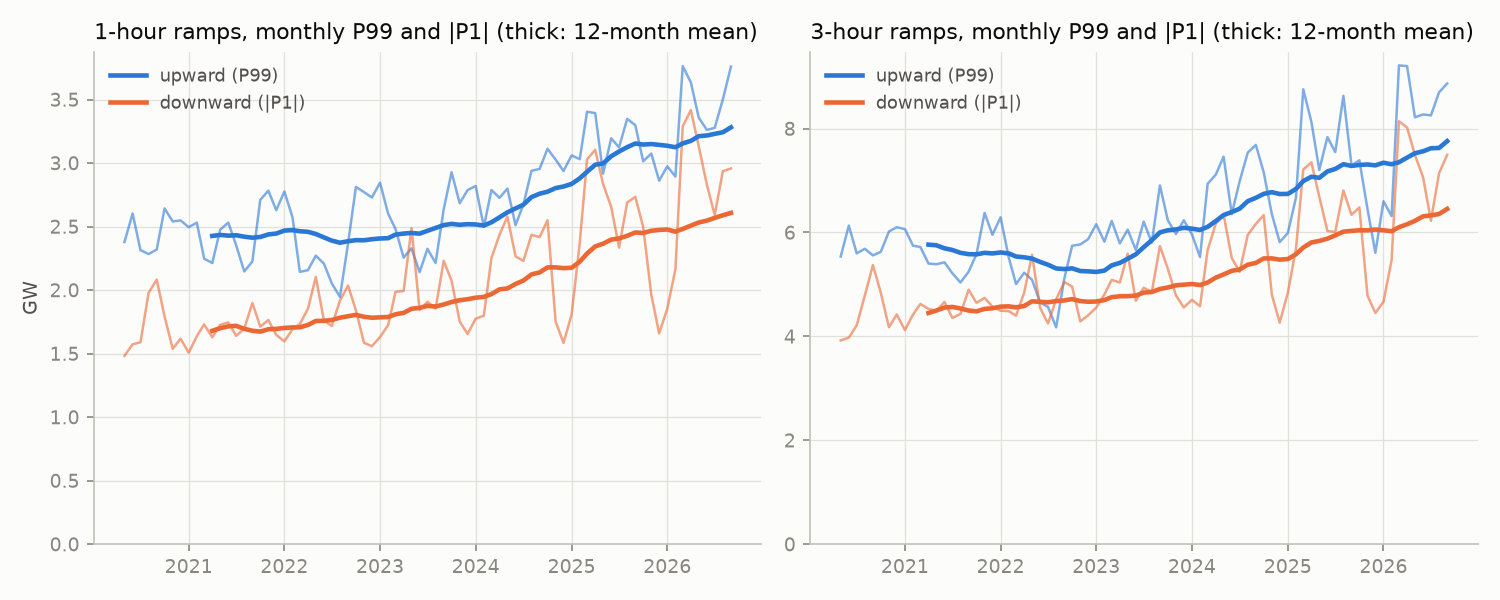
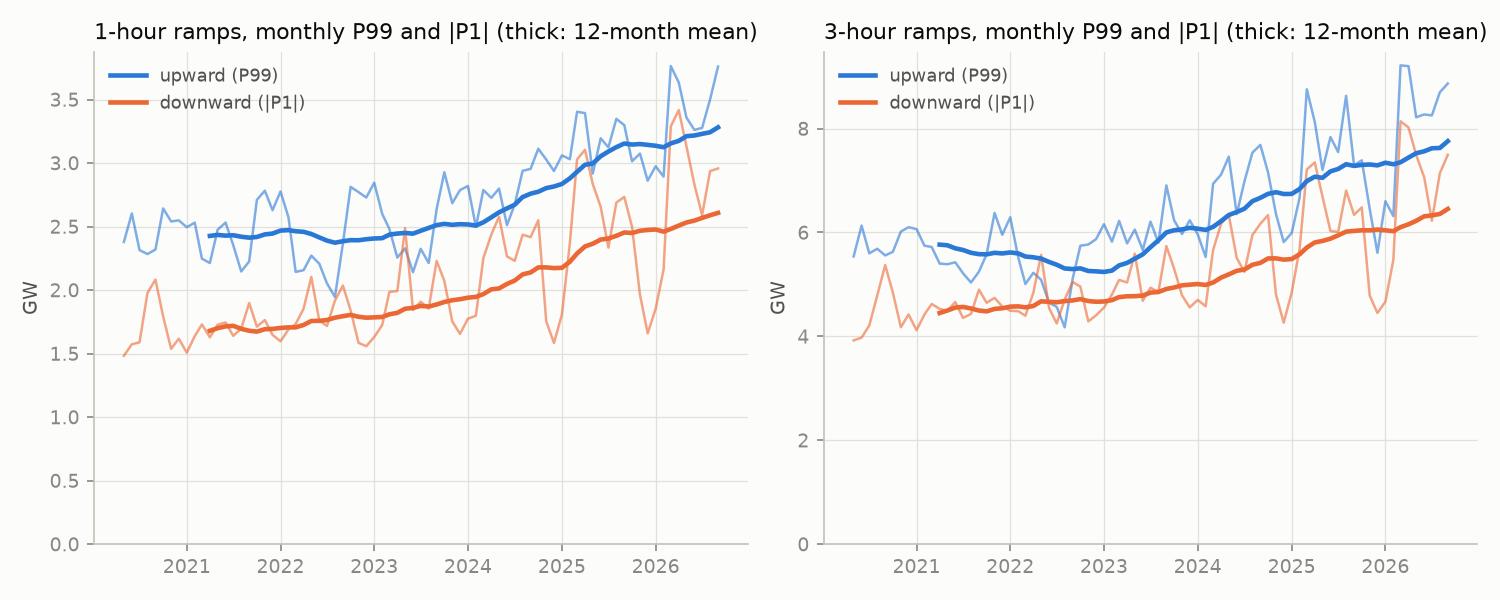
README charts: legend clear of the percentile lines, headroom for the IRRE labels, every year labelled
ramp_distributions.png: one legend below the panels with an entry for the dotted P1/P99 lines (they crossed
the legend and the note). irre.png: headroom so the legend clears the bar labels. duration_curves.png: the
grey year has a legend entry. ramp_trend.png: GW on both panels. Redrawn from a fresh download cut at the
original last interval (21.10.2026 20:45); all eight PNGs reproduced byte for byte before the change.

diff --git a/src/flex_ramps/figures.py b/src/flex_ramps/figures.py
@@ -15,6 +15,7 @@ import matplotlib
 matplotlib.use("Agg")
 import matplotlib.pyplot as plt  # noqa: E402
 import numpy as np  # noqa: E402
+from matplotlib.lines import Line2D  # noqa: E402
 import pandas as pd  # noqa: E402
 
 from flex_ramps.analysis import Analysis, PV_SCALES  # noqa: E402
@@ -85,7 +86,7 @@ def fig_duration(r: Analysis, path: Path) -> Path:
     colours = highlight_years(full)
     for y in full:
         c = colours[y]
-        a1.plot(d.index, d[y] / 1000, color=c, linewidth=2.0 if c != OLD else 1.2, label=y if c != OLD else None)
+        a1.plot(d.index, d[y] / 1000, color=c, linewidth=2.0 if c != OLD else 1.2, label=y)  # grey years too
     a1.set_title("Residual-load duration curves, full years", color=INK, fontsize=10.5, loc="left")
     by = str(r.base_year)
     cols = [by] + [c for c in d.columns if c.startswith(f"{by} PV")]
@@ -119,9 +120,12 @@ def fig_distributions(r: Analysis, path: Path) -> Path:
         _style(ax, "% of intervals" if horizon == "15min" else None)
         ax.set_xlabel(f"{horizon} change of residual load, GW", color=INK2, fontsize=9)
         ax.set_title(f"{horizon} ramps", color=INK, fontsize=10.5, loc="left")
-    _legend(axes[0], loc="upper left")
-    axes[2].text(0.98, 0.95, "dotted: P1 and P99", transform=axes[2].transAxes, ha="right", va="top",
-                 color=MUTED, fontsize=8)
+    # one legend below the panels (inside, the dotted percentile lines crossed it); the lines get their own entry
+    handles, labels = axes[0].get_legend_handles_labels()
+    handles.append(Line2D([], [], color=MUTED, linewidth=0.9, linestyle=":"))
+    labels.append("P1 and P99 (dotted)")
+    axes[1].legend(handles, labels, loc="upper center", bbox_to_anchor=(0.5, -0.2), ncol=3, frameon=False,
+                   fontsize=8, labelcolor=INK2, columnspacing=1.0, handlelength=1.5, handletextpad=0.5)
     return _save(fig, path)
 
 
@@ -140,7 +144,7 @@ def fig_trend(r: Analysis, path: Path) -> Path:
         ax.plot(x, up.rolling(12, min_periods=12).mean(), color=SERIES[0], linewidth=2.2, label="upward (P99)")
         ax.plot(x, down.rolling(12, min_periods=12).mean(), color=SERIES[1], linewidth=2.2,
                 label="downward (|P1|)")
-        _style(ax, "GW" if horizon == "1h" else None)
+        _style(ax, "GW")
         ax.set_title(f"{horizon[:-1]}-hour ramps, monthly P99 and |P1| (thick: 12-month mean)", color=INK,
                      fontsize=10.5,
                      loc="left")
@@ -208,6 +212,7 @@ def fig_irre(r: Analysis, path: Path) -> Path:
             a2.text(xx, v, f"{v:.1f}", ha="center", va="bottom", color=INK2, fontsize=7.5)
     a2.set_xticks(range(len(variants)), ["RTS-96 data", "nuclear\nmust-run", "+ storage"])
     _style(a2, None, grid="y")
+    a2.set_ylim(0, 1.3 * float(c[c["horizon_h"] == h]["irre_pct"].max()))  # headroom: legend above the labels
     a2.set_title(f"IRRE at the {h:.0f}-hour horizon by fleet variant", color=INK, fontsize=10.5, loc="left")
     _legend(a2, loc="upper left")
     return _save(fig, path)
